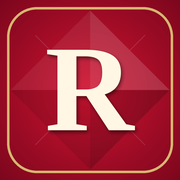
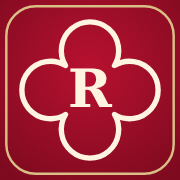
Pantalla de carga con trebol y R en la palabra; iconos nuevos con trebol
Claude-Session: https://claude.ai/code/session_01LdEDjqxvBp29e1CEDPXrbd

diff --git a/index.html b/index.html
@@ -120,7 +120,7 @@ input[type=file]{display:none}
 #splash.out{opacity:0;pointer-events:none}
 #splash .lg{width:104px;height:104px;border-radius:26px;box-shadow:0 8px 24px rgba(120,6,28,.35)}
 #splash .lg svg{width:48px;height:48px}
-#splash h2{margin:0;font-family:'Cormorant Garamond',Didot,Georgia,serif;font-weight:500;letter-spacing:5px;text-transform:uppercase;color:var(--gold);font-size:24px}
+#splash h2{margin:0;white-space:nowrap;font-family:'Cormorant Garamond',Didot,Georgia,serif;font-weight:500;letter-spacing:5px;text-transform:uppercase;color:var(--gold);font-size:30px}#splash h2 .clw{width:58px;height:58px;vertical-align:-18px}#splash h2 .clw b{font-size:36px}
 .spin{width:34px;height:34px;border-radius:50%;border:3px solid var(--line);border-top-color:var(--blue);animation:sp .8s linear infinite}
 #busy .spin{border-color:rgba(255,255,255,.3);border-top-color:#fff}
 @keyframes sp{to{transform:rotate(360deg)}}
@@ -173,7 +173,7 @@ html,body{overscroll-behavior-y:contain}
 #ptr i{width:22px;height:22px;border-radius:50%;border:3px solid #f1c4cb;border-top-color:#c8102e;display:block}
 #ptr.go i{animation:sp .7s linear infinite}
 </style></head><body>
-<div id="splash"><img class="lg" src="icon-192.png" alt=""><h2 id="sptit">Receiving</h2><div class="spin"></div></div>
+<div id="splash"><h2 id="sptit"><span class="clw"><svg viewBox="0 0 40 40" aria-hidden="true"><path d="M13.18 13.18A8 8 0 1 1 26.82 13.18A8 8 0 1 1 26.82 26.82A8 8 0 1 1 13.18 26.82A8 8 0 1 1 13.18 13.18Z" fill="none" stroke="currentColor" stroke-width="2" stroke-linejoin="round"/></svg><b>R</b></span>eceiving</h2><div class="spin"></div></div>
 <div id="ptr"><i></i></div>
 <div id="busy"><div class="spin"></div><span id="btxt">Preparando…</span></div>
 <button id="chip" aria-label="Cambiar nombre"><svg viewBox="0 0 24 24" fill="none" stroke="currentColor" stroke-width="2" stroke-linecap="round" stroke-linejoin="round"><circle cx="12" cy="8" r="4"/><path d="M4 21c0-4.4 3.6-7 8-7s8 2.6 8 7"/></svg><span id="chn"></span></button>
@@ -247,6 +247,7 @@ function warnBar(){let h='';
  return h}
 function badge(){try{const n=photos.length;if(navigator.setAppBadge){if(n)navigator.setAppBadge(n).catch(()=>{});else navigator.clearAppBadge().catch(()=>{})}}catch(e){}}
 async function load(){chkSpace();try{await purge()}catch(e){}photos=(await tx('p','readonly',s=>s.getAll())||[]).sort((a,b)=>a.id-b.id);photos.forEach(p=>p.on=true);hist=(await tx('h','readonly',s=>s.getAll())||[]).sort((a,b)=>b.id-a.id);badge();draw()}
+const wordmark=()=>{const t=(cfg.titulo||'Receiving').trim();return`<span class="clw"><svg viewBox="0 0 40 40" aria-hidden="true"><path d="M13.18 13.18A8 8 0 1 1 26.82 13.18A8 8 0 1 1 26.82 26.82A8 8 0 1 1 13.18 26.82A8 8 0 1 1 13.18 13.18Z" fill="none" stroke="currentColor" stroke-width="2" stroke-linejoin="round"/></svg><b>${esc(t.charAt(0))}</b></span>${esc(t.slice(1))}`};
 function draw(){
  document.querySelectorAll('.tabs button').forEach(b=>b.classList.toggle('on',b.dataset.t===tab));
  $('sendbox').style.display=tab==='fotos'?'':'none';
@@ -255,7 +256,7 @@ function draw(){
  const m=$('m');
  $('chn').textContent=cfg.nombre||'Elegir nombre';$('chip').classList.toggle('none',!cfg.nombre);$('chip').classList.toggle('net-on',navigator.onLine);$('chip').classList.toggle('net-off',!navigator.onLine);$('chip').style.display=tab==='fotos'?'':'none';
  if(tab==='fotos'){
-  m.innerHTML=`${cfg.logo?`<img class="logo" src="${cfg.logo}">`:''}<h1><span class="clw"><svg viewBox="0 0 40 40" aria-hidden="true"><path d="M13.18 13.18A8 8 0 1 1 26.82 13.18A8 8 0 1 1 26.82 26.82A8 8 0 1 1 13.18 26.82A8 8 0 1 1 13.18 13.18Z" fill="none" stroke="currentColor" stroke-width="2" stroke-linejoin="round"/></svg><b>${esc((cfg.titulo||'Receiving').trim().charAt(0))}</b></span>${esc((cfg.titulo||'Receiving').trim().slice(1))}</h1>${warnBar()}${netBar()}
+  m.innerHTML=`${cfg.logo?`<img class="logo" src="${cfg.logo}">`:''}<h1>${wordmark()}</h1>${warnBar()}${netBar()}
   <div class="head"><b>${photos.length?`${photos.length} foto${photos.length>1?'s':''}`:'Sin fotos'}</b>${photos.length?`<span class="hb">${delSel.size?'<button id="trash" aria-label="Borrar seleccionadas"><svg viewBox="0 0 24 24" width="22" height="22" fill="none" stroke="currentColor" stroke-width="1.8" stroke-linecap="round" stroke-linejoin="round"><path d="M4 7h16M10 11v6M14 11v6M6 7l1 12a2 2 0 0 0 2 2h6a2 2 0 0 0 2-2l1-12M9 7V4h6v3"/></svg></button>':''}${delMode?'<button id="dcancel">Cancelar</button>':''}</span>`:''}</div>
   ${photos.length?`${photos.some(p=>!p.nt)?'<div class="grid" id="grid"></div>':''}${photos.some(p=>p.nt)?`<label class="t" style="display:block;margin:18px 0 8px">Especiales (${photos.filter(p=>p.nt).length})</label>${nS?`<button class="btn s" id="nsp" style="background:var(--blue);margin:0 0 10px">Compartir especiales (${nS})</button>`:''}<div class="grid" id="grid2"></div>`:''}`:'<div class="empty"><div class="big"><svg class="ic" viewBox="0 0 24 24" fill="none" stroke="currentColor" stroke-width="1.8" stroke-linecap="round" stroke-linejoin="round"><path d="M4 8h3l1.6-2.4h6.8L17 8h3a1 1 0 0 1 1 1v9a1 1 0 0 1-1 1H4a1 1 0 0 1-1-1V9a1 1 0 0 1 1-1z"/><circle cx="12" cy="13.5" r="3.6"/></svg></div>Abre la cámara y toma las fotos.<br>Cada foto se guarda sola, sin internet.</div>'}`;
   if($('nsend'))$('nsend').onclick=()=>enviar();if($('nsp'))$('nsp').onclick=()=>enviar({sp:true});if($('winst'))$('winst').onclick=()=>{tab='opc';draw();setTimeout(()=>$('inst')&&$('inst').click(),50)};
@@ -584,6 +585,6 @@ setTimeout(bajaLista,1500);document.addEventListener('visibilitychange',()=>{if(
 addEventListener('online',()=>{bajaLista();draw();const q=photos.filter(p=>p.q).length;if(q){toast('Hay conexión: '+q+' en cola');try{if(window.Notification&&Notification.permission==='granted')new Notification('Receiving',{body:q+(cfg.idioma==='en'?' photo(s) ready to send':' foto(s) listas para enviar')})}catch(e){}}});
 let persistido=false;if(navigator.storage&&navigator.storage.persist){navigator.storage.persisted().then(v=>v?v:navigator.storage.persist()).then(v=>{persistido=!!v;if(tab==='opc')draw()}).catch(()=>{})}
 revisa2am();setInterval(revisa2am,30000);document.addEventListener('visibilitychange',()=>{if(!document.hidden)revisa2am()});
-open().then(d=>{db=d;return load()}).then(()=>{$('sptit').textContent=cfg.titulo||'Receiving';setTimeout(()=>{$('splash').classList.add('out');setTimeout(()=>$('splash').remove(),500);setTimeout(ayerCheck,300)},600)});
+open().then(d=>{db=d;return load()}).then(()=>{$('sptit').innerHTML=wordmark();setTimeout(()=>{$('splash').classList.add('out');setTimeout(()=>$('splash').remove(),500);setTimeout(ayerCheck,300)},600)});
 if('serviceWorker'in navigator)navigator.serviceWorker.register('sw.js');
 </script></body></html>

diff --git a/sw.js b/sw.js
@@ -1,4 +1,4 @@
-const C='receiving-v94',A=['./','index.html','manifest.json','icon-192.png','icon-512.png','apple-touch-icon.png'];
+const C='receiving-v95',A=['./','index.html','manifest.json','icon-192.png','icon-512.png','apple-touch-icon.png'];
 const PG=k=>new Response("<!doctype html><html><head><meta charset=\"utf-8\"><meta name=\"viewport\" content=\"width=device-width,initial-scale=1,viewport-fit=cover\"><meta name=\"theme-color\" content=\"#c8102e\"><title>Receiving</title><style>\n:root{--bg:#faf6ef;--text:#2a2220;--muted:#9a8c78;--red:#c8102e;--gold:#a98f5b}@media(prefers-color-scheme:dark){:root{--bg:#140c0e;--text:#f5eee0;--muted:#a8997f;--gold:#c4a96d}}\n*{box-sizing:border-box;-webkit-user-select:none;user-select:none;-webkit-touch-callout:none;-webkit-tap-highlight-color:transparent}\nbody{margin:0;min-height:100vh;display:flex;flex-direction:column;align-items:center;justify-content:center;gap:14px;padding:32px;text-align:center;background:var(--bg);color:var(--text);font-family:-apple-system,BlinkMacSystemFont,\"Segoe UI\",Roboto,sans-serif}\nh1{margin:0;font-family:Georgia,serif;font-weight:400;letter-spacing:.18em;text-transform:uppercase;color:var(--gold);font-size:28px}\ni{width:14px;height:14px;background:var(--red);transform:rotate(45deg);border-radius:3px;display:block;margin:2px 0 10px}\nh2{margin:0;font-size:20px}p{margin:0;color:var(--muted);font-size:16px;line-height:1.45;max-width:320px}\na,button{margin-top:10px;border:0;background:var(--red);color:#fff;border-radius:16px;padding:14px 28px;font-size:17px;font-weight:700;text-decoration:none;font-family:inherit}\n</style></head><body><h1>Receiving</h1><i></i><h2 id=\"t\"></h2><p id=\"d\"></p><a id=\"b\" href=\"./\"></a>\n<script>var es=(navigator.language||\"\").slice(0,2)===\"es\",k=\"__KIND__\";\nvar T={off:[[\"Sin conexi\\u00f3n\",\"Offline\"],[\"Tus fotos est\\u00e1n guardadas en la app. Abre la app desde el icono de tu pantalla de inicio.\",\"Your photos are safe in the app. Open the app from your Home Screen icon.\"],[\"Reintentar\",\"Try again\"]],nf:[[\"P\\u00e1gina no encontrada\",\"Page not found\"],[\"Esta direcci\\u00f3n no existe. Vuelve a la app.\",\"This address does not exist. Go back to the app.\"],[\"Abrir Receiving\",\"Open Receiving\"]]}[k],i=es?0:1;\ndocument.getElementById(\"t\").textContent=T[0][i];document.getElementById(\"d\").textContent=T[1][i];var b=document.getElementById(\"b\");b.textContent=T[2][i];if(k===\"off\")b.onclick=function(e){e.preventDefault();location.reload()};</script></body></html>".replace('__KIND__',k),{status:k==='nf'?404:503,headers:{'Content-Type':'text/html; charset=utf-8'}});
 self.addEventListener('install',e=>{e.waitUntil(caches.open(C).then(c=>c.addAll(A)));self.skipWaiting()});
 self.addEventListener('activate',e=>{e.waitUntil(caches.keys().then(k=>Promise.all(k.filter(x=>x!==C).map(x=>caches.delete(x)))).then(()=>clients.claim()))});
